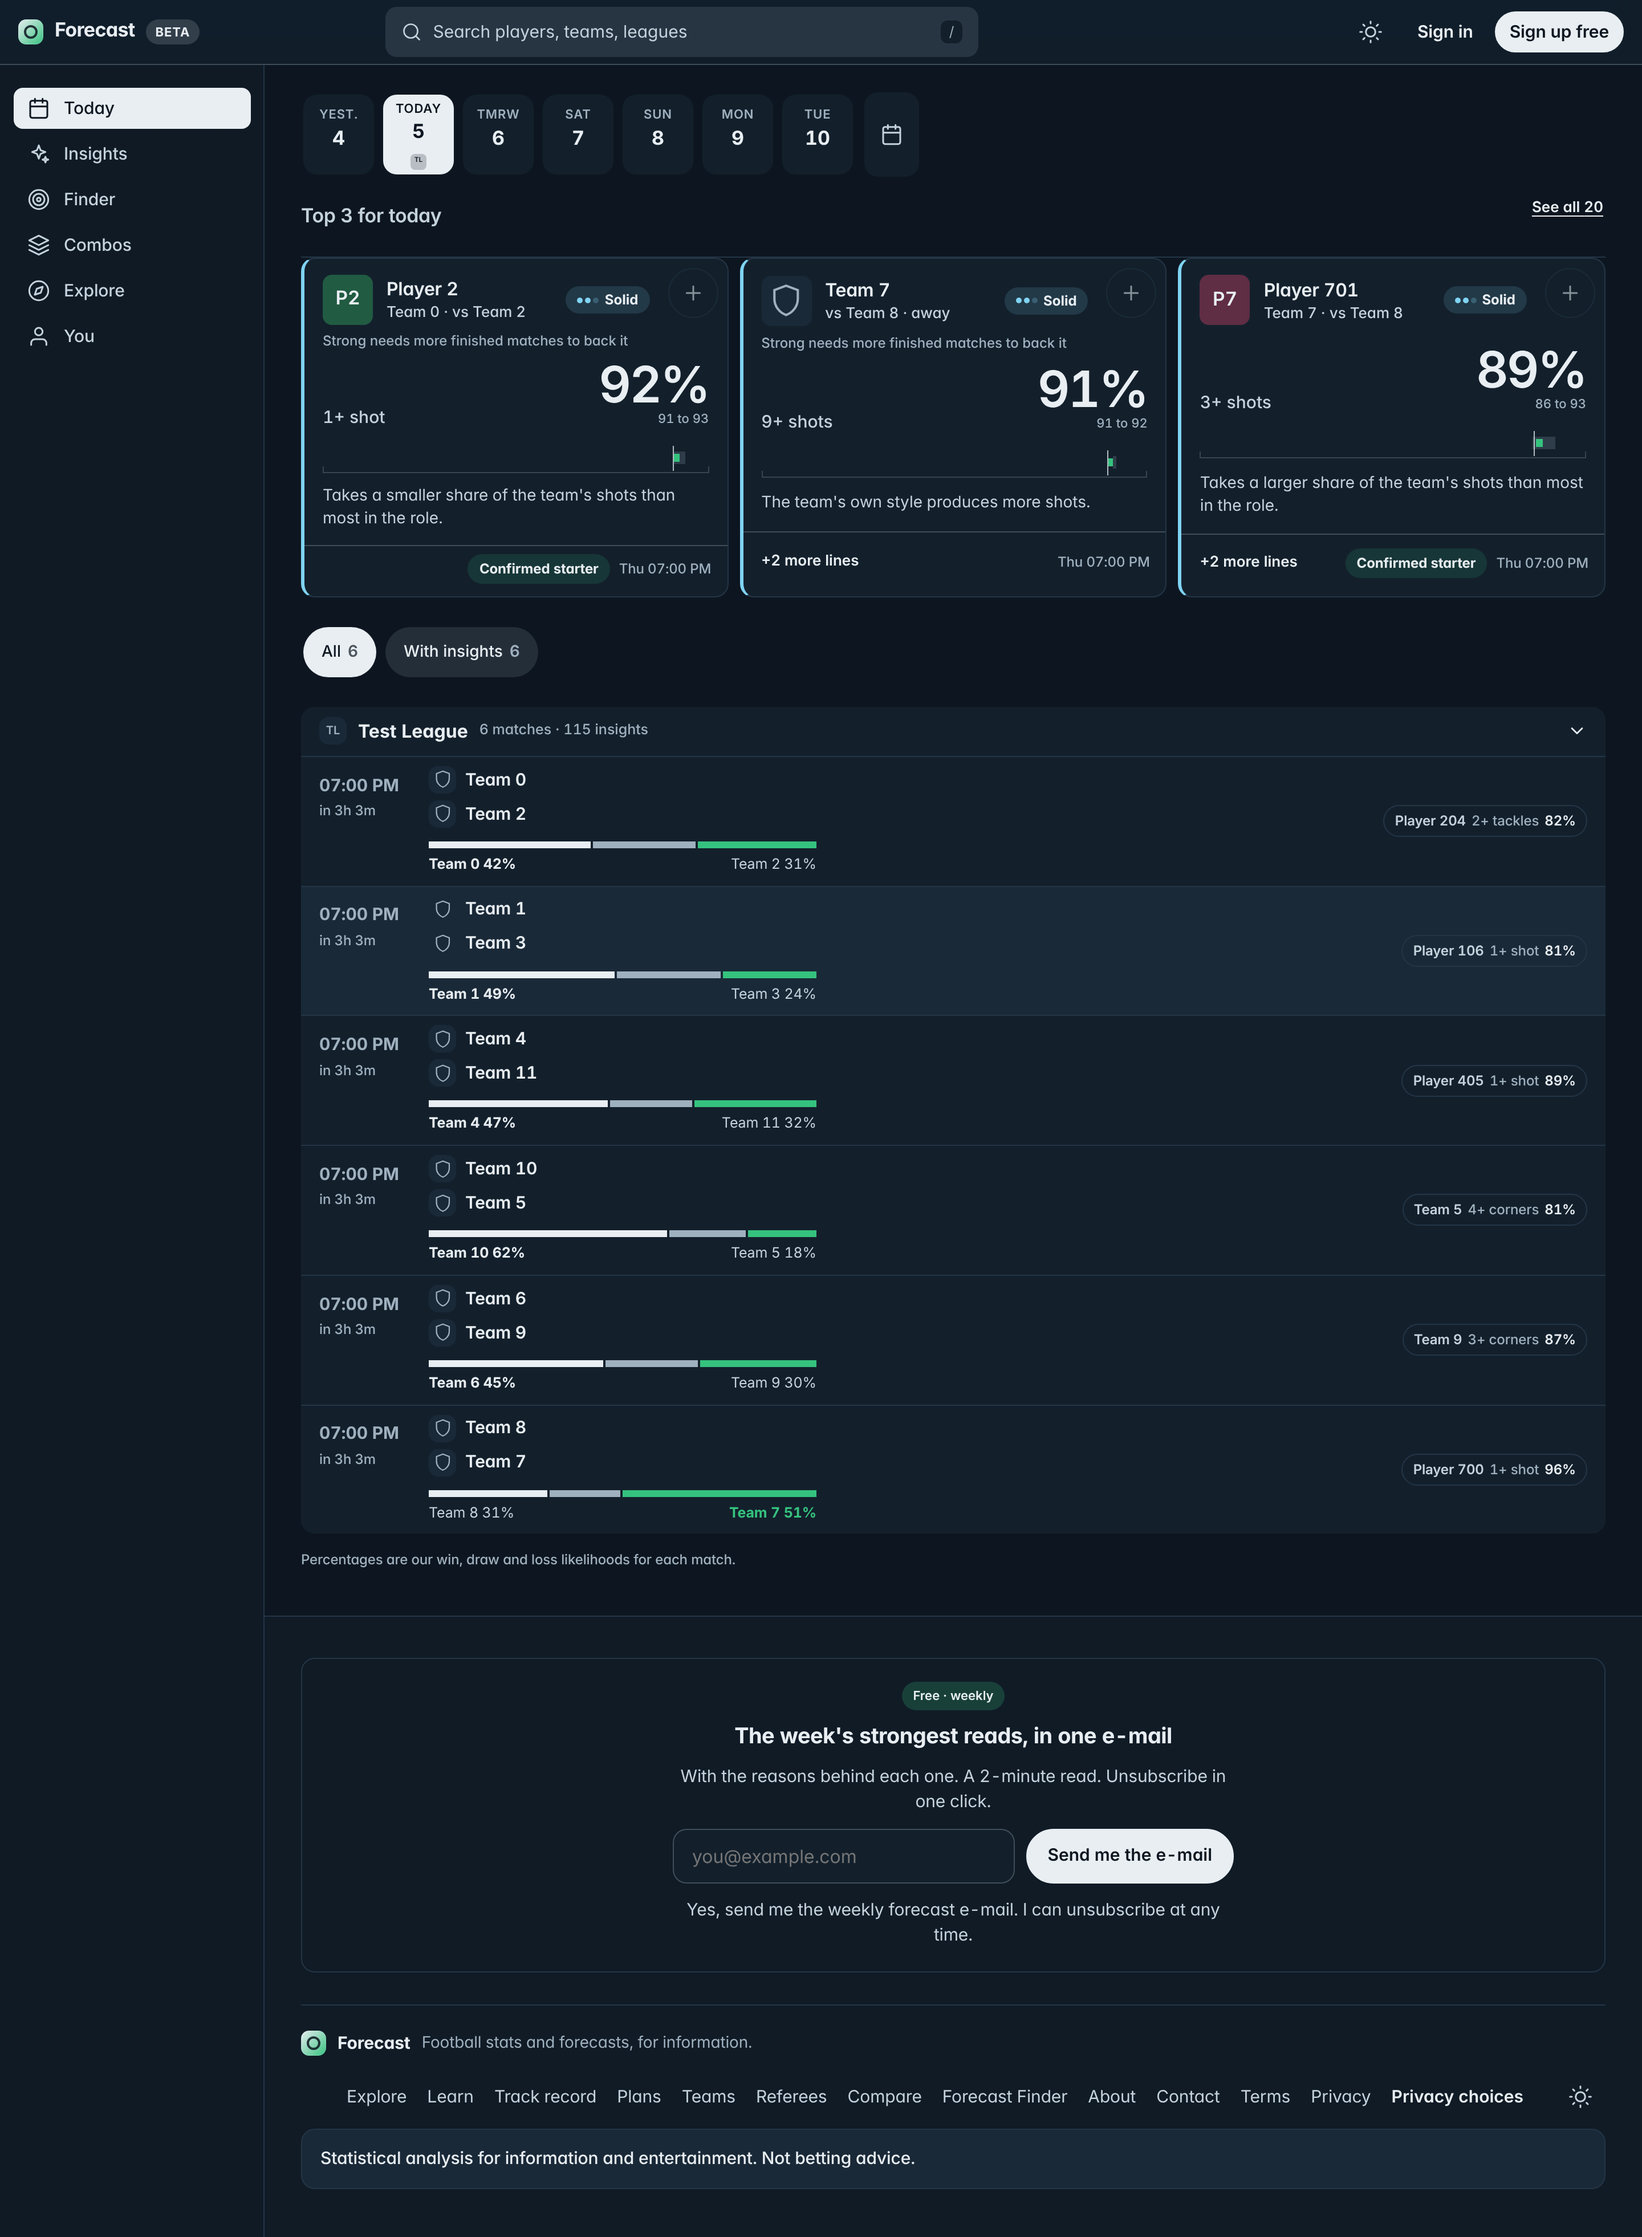
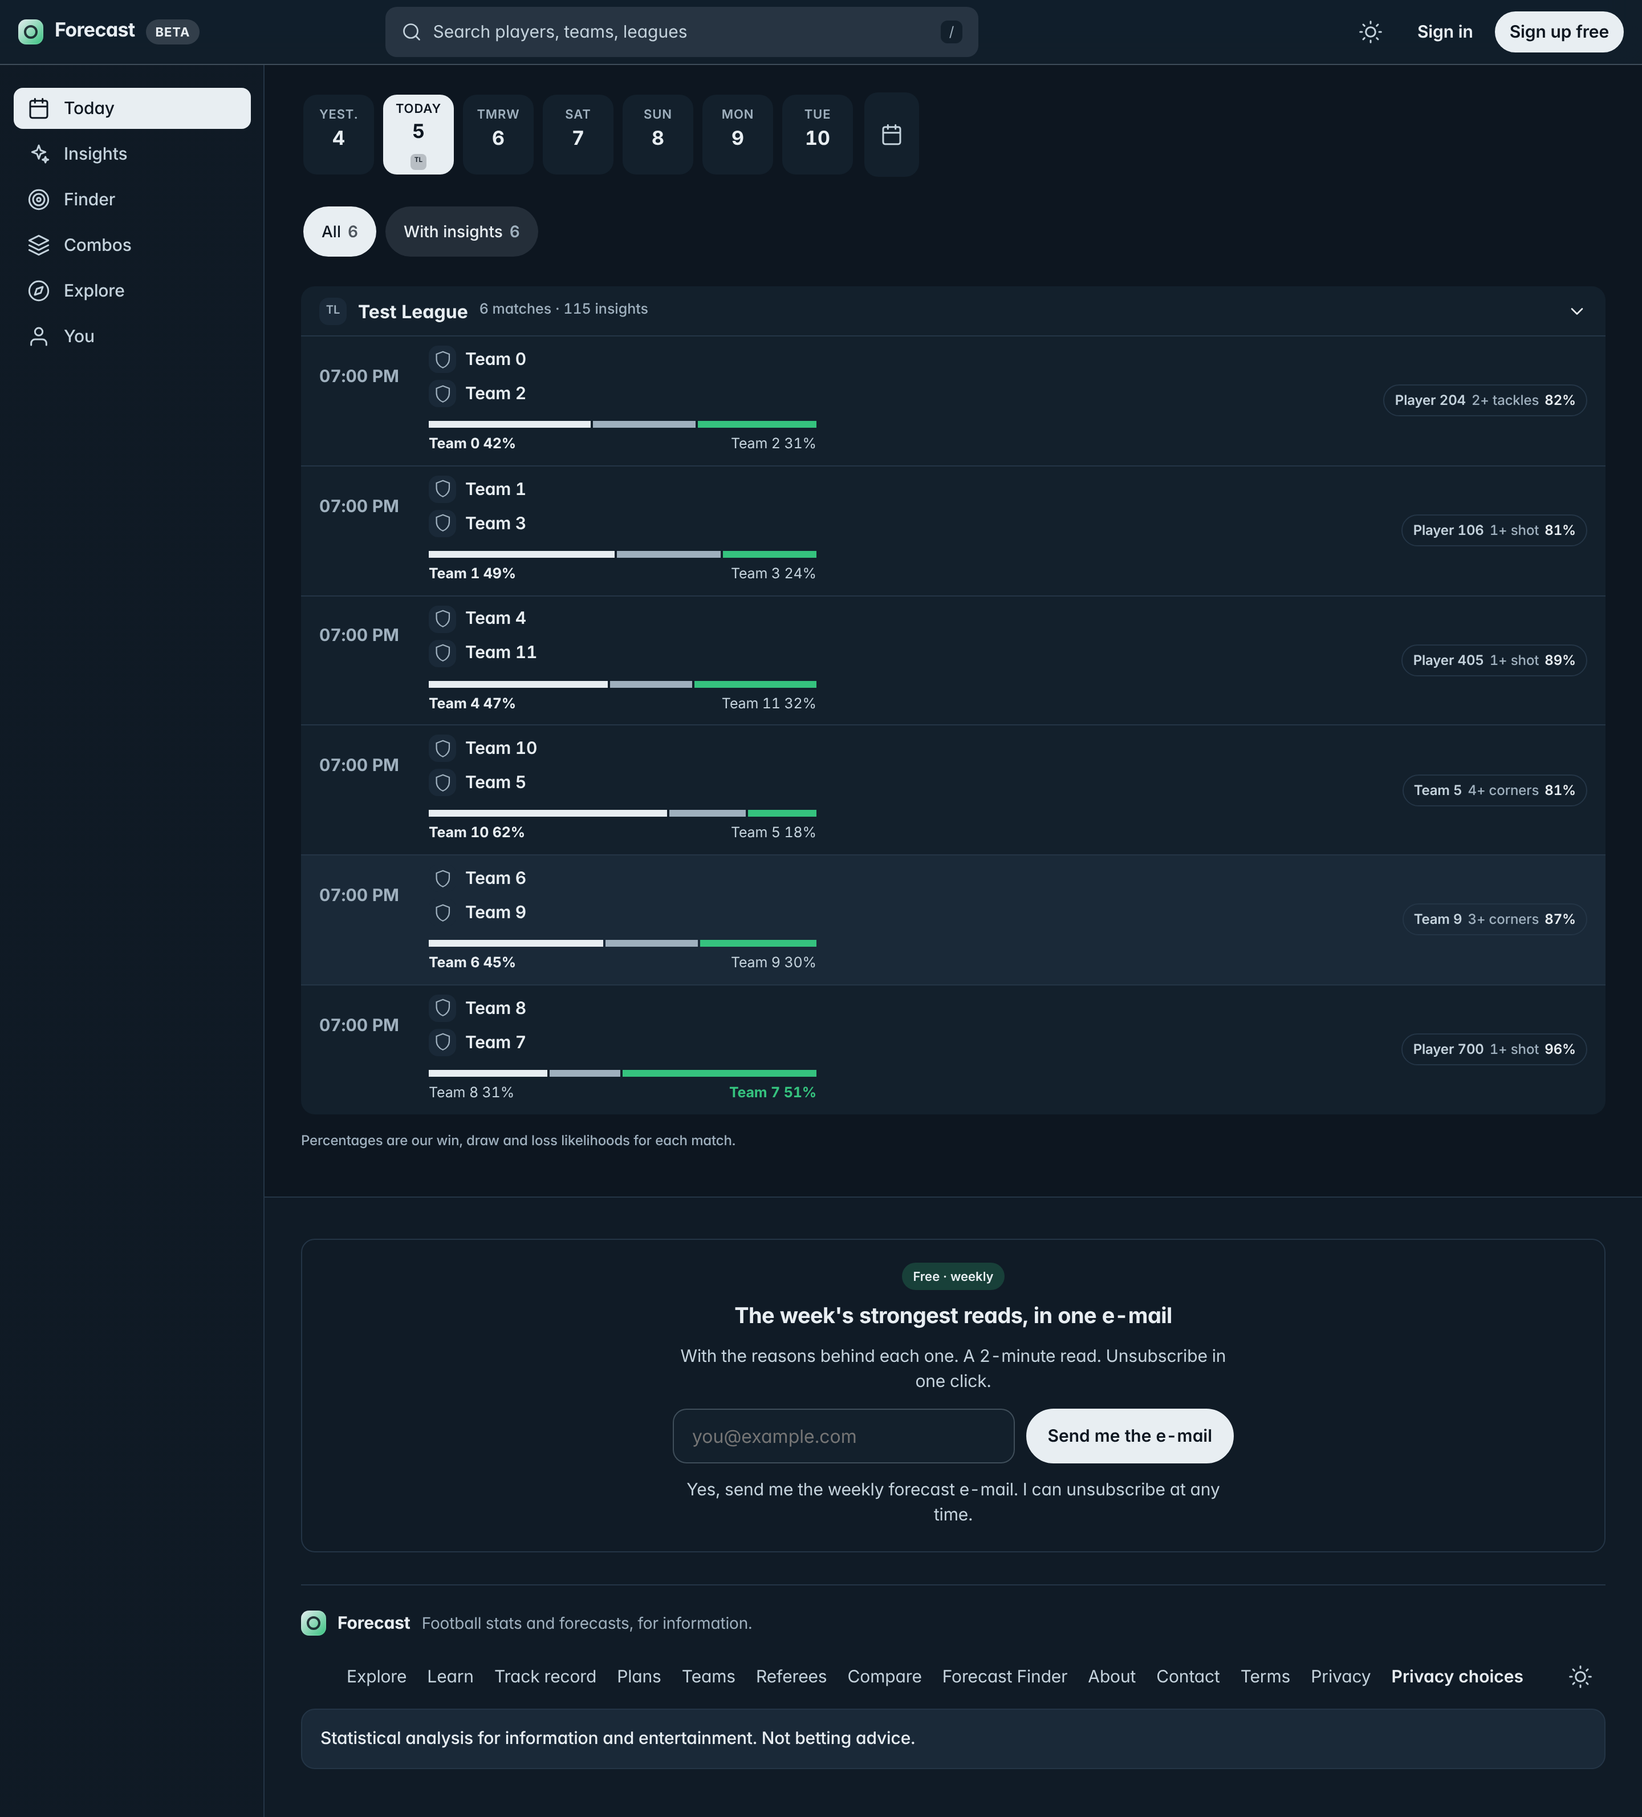
Today: the day strip, the calendar, and results on finished rows
Reviewed the main page end to end. Each fault measured from the rendered page rather than asserted.

The day strip hid three of its seven days. It is overflow-x: auto with scrollbar-width: none, and
on a 390px phone that is 486px of content in a 302px window -- 184px unreachable with nothing to
say it was there. It is the same fault the game strip had in the Swiss pass, in a different
component, so the same rule applies: a collection wraps before it hides anything.

The strip also never said which month it was in. Crossing a boundary it read "31" then "1" with no
way to tell which. The month is printed where it changes and at the start of the strip.

The selected day was a solid slab of --brand, measured at rgb(232,238,242) -- because v2 redefined
--brand to the chalk ink, so a date control was the loudest thing on the page. Selection is a
state, not an emphasis: it takes a rule and a weight.

The calendar button often did nothing on a desktop. It was a label relying on focus to open the
native picker, which desktop browsers do not do. It is a button calling showPicker() now, falling
back to focus and click. It also had no min or max at all, so a reader could pick 1994 and get an
empty page with no explanation; it is bounded to a year back and two months forward.

A finished match still showed a pre-match percentage -- the one row where the answer is already
known and we declined to give it. forecast_outcomes already stored `reached`, so best_line now
[…]

diff --git a/frontend/src/components/ui/DateScroller.jsx b/frontend/src/components/ui/DateScroller.jsx
@@ -17,6 +17,13 @@ const MAX_MARKS = 3;                       // more than three crests on a 62 px 
 
 export function DateScroller({ value, onChange, from = -1, count = 7, gameDays, dayLeagues, testid = "ui-dates" }) {
   const ref = useRef(null);
+  const cal = useRef(null);
+  // The strip never said which month it was in. Crossing a boundary it read "31" then "1", and a
+  // reader three taps deep had no way to tell which. The month is printed when it changes.
+  const monthOf = (d) => d.toLocaleDateString(undefined, { month: "short" });
+  // Without bounds a reader could land on 1994 and get an empty page with no explanation. A year
+  // back and two months forward is the range this product has anything to say about.
+  const bound = (n) => { const d = new Date(); d.setDate(d.getDate() + n); return isoDay(d); };
   const days = useMemo(() => [...Array(count)].map((_, i) => { const d = new Date(); d.setDate(d.getDate() + from + i); return { d, off: from + i }; }), [from, count]);
   useEffect(() => {
     const el = ref.current?.querySelector('[aria-selected="true"]');
@@ -34,7 +41,7 @@ export function DateScroller({ value, onChange, from = -1, count = 7, gameDays, 
             <button key={k} type="button" role="tab" aria-selected={k === value} aria-current={k === value ? "date" : undefined} className={`k-day${k === value ? " on" : ""}`} onClick={() => onChange(k)}
               aria-label={`${NAMES[off] || d.toLocaleDateString(undefined, { weekday: "short" })} ${d.getDate()}, ${d.toLocaleDateString(undefined, { weekday: "long", day: "numeric", month: "long" })}${lgs.length ? `, ${lgs.map((l) => l.name).join(", ")}` : has ? ", has games" : ""}`} data-testid={`${testid}-${k}`}>
               <span className="w">{NAMES[off] || d.toLocaleDateString(undefined, { weekday: "short" })}</span>
-              <span className="n">{d.getDate()}</span>
+              <span className="n">{d.getDate()}{d.getDate() === 1 || off === from ? <i className="k-day-mon">{monthOf(d)}</i> : null}</span>
               {lgs.length ? (
                 <span className="k-day-lgs" aria-hidden="true">
                   {lgs.slice(0, MAX_MARKS).map((l) => <LeagueMark key={l.id} league={l} size={14} />)}
@@ -45,10 +52,15 @@ export function DateScroller({ value, onChange, from = -1, count = 7, gameDays, 
           );
         })}
       </div>
-      <label className="k-day k-day--cal" title="Pick a date">
+      {/* Clicking the icon used to rely on the label focusing the input, which does not open the
+          picker on a desktop browser -- so on a computer the control often did nothing at all.
+          showPicker opens it directly where the browser supports it. */}
+      <button type="button" className="k-day k-day--cal" title="Pick a date"
+              onClick={() => { const el = cal.current; if (el?.showPicker) { try { el.showPicker(); return; } catch { /* fall through */ } } el?.focus(); el?.click(); }}>
         <Icon name="calendar" size={20} /><span className="sr-only">Pick a date</span>
-        <input type="date" value={value} onChange={pick} data-testid={`${testid}-calendar`} />
-      </label>
+        <input ref={cal} type="date" value={value} min={bound(-365)} max={bound(60)} onChange={pick}
+               onClick={(e) => e.stopPropagation()} data-testid={`${testid}-calendar`} />
+      </button>
     </div>
   );
 }

diff --git a/frontend/src/styles/v2.css b/frontend/src/styles/v2.css
@@ -786,3 +786,42 @@ h2, .k-sec, .td-sec-head h2, .ins h2, .mc-sec h2, .pr h2, .tm h2, .fg-head h3, .
 .v2-fs-who .v2-club { font-size: 13px; gap: 6px; }
 .k-fs-fx { display: flex; align-items: center; gap: 8px; flex-wrap: wrap; min-width: 0; }
 .k-fs-fx .v2-nextfx-at { font-size: 10px; padding: 1px 6px; }
+
+
+/* =============================================================== 22. THE DAY STRIP
+   Measured on a 390px phone: 486px of days in a 302px window, with `scrollbar-width: none`. Three
+   of seven days were unreachable and nothing said they existed -- the same fault the game strip
+   had in the Swiss pass, in a different component. A collection wraps before it hides anything. */
+.k-days { flex-wrap: wrap; overflow-x: visible; row-gap: 8px; }
+.k-days-wrap { flex-wrap: wrap; }
+
+/* The selected day was a solid block of --brand, which v2 redefined to the chalk ink -- so the
+   control shouted louder than any content on the page. Selection is a state, not an emphasis:
+   it gets the ink as a rule and a weight, not as a slab. */
+.k-day { border: 1px solid transparent; background: var(--surface1); }
+.k-day.on { background: var(--surface2); color: var(--text); border-color: var(--text); }
+.k-day.on .w { color: var(--text2); opacity: 1; }
+.k-day.on .dot:not(.no) { background: var(--text); }
+.k-day .w { font-stretch: 92%; font-weight: 600; font-size: 11px; }
+.k-day .n { font-stretch: 104%; font-weight: 600; font-variant-numeric: tabular-nums; }
+/* The month, printed where it changes rather than never. */
+.k-day-mon {
+  display: block; font-style: normal; font-size: 9px; font-stretch: 88%; font-weight: 600;
+  color: var(--text3); letter-spacing: .02em; margin-top: -2px;
+}
+.k-day.on .k-day-mon { color: var(--text2); }
+.k-day--cal { display: flex; align-items: center; justify-content: center; cursor: pointer; }
+
+/* A finished row reports instead of predicting. Colour is the same semantic pair used everywhere:
+   it happened, or it did not. */
+.td-ins.is-hit { border-color: color-mix(in srgb, var(--up) 55%, var(--border)); }
+.td-ins.is-hit em { color: var(--up); }
+.td-ins.is-miss em { color: var(--text3); }
+
+/* The weight ladder tops out at 650 in v2; these were at 800, from before the type changed. */
+.td-ft, .td-off, .td-min, .td-sc, .td-livebadge { font-weight: 650; }
+.td-teams > span.is-win .td-name, .td-teams > span.is-win .td-sc { font-weight: 650; }
+/* Live is a STATE, not a comparison. The dot stays red because that reads as "on air" everywhere,
+   but the minute itself was painted --down, which in this product means "below usual" -- so the
+   number was quietly making a claim about the forecast. */
+.td-min { color: var(--text); }

diff --git a/frontend/src/pages/Today.jsx b/frontend/src/pages/Today.jsx
@@ -82,8 +82,14 @@ function Row({ m }) {
             now names the one line most worth reading in that match, which is what the reader is
             actually deciding between. */}
         {m.best_line?.market && !off ? (
-          <span className="td-ins" data-testid={`today-insights-${m.id}`}>
-            <b>{m.best_line.who}</b> {m.best_line.market} <em>{Math.round((m.best_line.p || 0) * 100)}%</em>
+          /* Once the match is over, the chip stops predicting and reports. Showing "82%" beside a
+             final score is the one case where we know the answer and decline to give it. */
+          <span className={"td-ins" + (m.best_line.reached === true ? " is-hit" : m.best_line.reached === false ? " is-miss" : "")}
+                data-testid={`today-insights-${m.id}`}>
+            <b>{m.best_line.who}</b> {m.best_line.market}{" "}
+            {m.best_line.reached == null
+              ? <em>{Math.round((m.best_line.p || 0) * 100)}%</em>
+              : <em>{m.best_line.reached ? "happened" : "did not"}</em>}
           </span>
         ) : m.insight_count > 0 && !off ? (
           <span className="td-ins" data-testid={`today-insights-${m.id}`}>{m.insight_count} line{m.insight_count === 1 ? "" : "s"}</span>
@@ -101,7 +107,7 @@ function Group({ league, rows }) {
     <section className="td-group card" data-testid={`today-league-${league?.id || "other"}`}>
       <button type="button" className="td-ghead" aria-expanded={open} onClick={() => setOpen(!open)} data-testid={`today-league-toggle-${league?.id || "other"}`}>
         <LeagueMark league={league} size={24} /><b>{league?.name || "Other"}</b>{nl > 0 && <span className="td-livebadge"><span className="k-livedot" aria-hidden="true" />{nl} live</span>}
-        <small>{rows.length} match{rows.length === 1 ? "" : "es"}{n ? <span className="td-gins"> · {n} insight{n === 1 ? "" : "s"}</span> : null}</small><Icon name="chevron-down" size={18} />
+        <small>{rows.length} match{rows.length === 1 ? "" : "es"}</small><Icon name="chevron-down" size={18} />
       </button>
       {open && <ul className="td-list">{rows.map((m) => <Row key={m.id} m={m} />)}</ul>}
     </section>

diff --git a/backend/queries.py b/backend/queries.py
@@ -88,18 +88,26 @@ def _best_line(db, match_iids: list[int]) -> dict:
         return {}
     rows = list(db.forecasts.find(
         {"match_iid": {"$in": match_iids}, **NOT_HIDDEN, "tier": {"$in": ["Strong", "Solid"]}},
-        {"_id": 0, "match_iid": 1, "scope": 1, "stat": 1, "market": 1, "p": 1, "p_usual": 1,
+        {"_id": 0, "id": 1, "match_iid": 1, "scope": 1, "stat": 1, "market": 1, "p": 1, "p_usual": 1,
          "is_personal": 1, "span": 1, "player_iid": 1, "team_iid": 1, "edge": 1}))
     if not rows:
         return {}
     pl = _names(db, "players", [r["player_iid"] for r in rows if r.get("player_iid")])
     tm = _names(db, "teams", [r["team_iid"] for r in rows if r.get("team_iid")])
+    # Once a match is over the row was still showing what we EXPECTED, on the one line where the
+    # answer is already known. That throws away the product's own argument at the moment it could
+    # be made, so a finished fixture says whether the line it led with actually happened.
+    done = {o["forecast_id"]: bool(o.get("reached"))
+            for o in db.forecast_outcomes.find({"forecast_id": {"$in": [r.get("id") for r in rows if r.get("id")]}},
+                                               {"_id": 0, "forecast_id": 1, "reached": 1})}
     out: dict = {}
     for r in rows:
         cur = out.get(r["match_iid"])
         if cur is None or prominence(r) > cur[0]:
             who = (pl.get(r["player_iid"]) or {}).get("name") if r.get("player_iid") else (tm.get(r["team_iid"]) or {}).get("name")
-            out[r["match_iid"]] = (prominence(r), {"who": who, "market": r.get("market"), "p": float(r.get("p") or 0)})
+            out[r["match_iid"]] = (prominence(r), {"who": who, "market": r.get("market"),
+                                                    "p": float(r.get("p") or 0),
+                                                    "reached": done.get(r.get("id"))})
     return {k: v[1] for k, v in out.items()}
 
 
